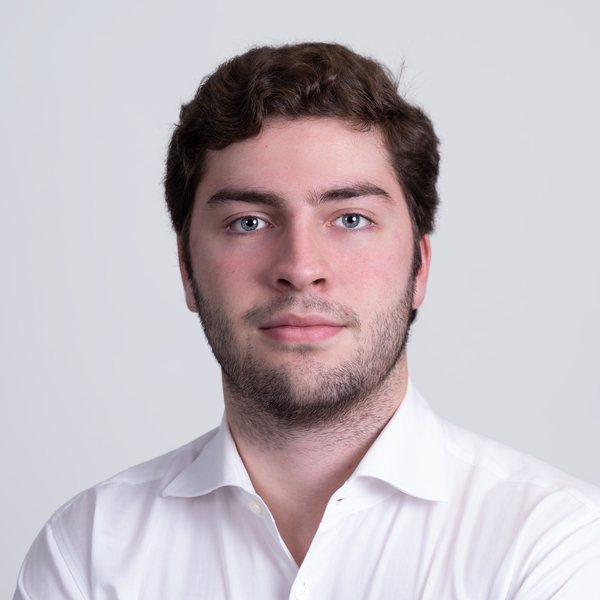
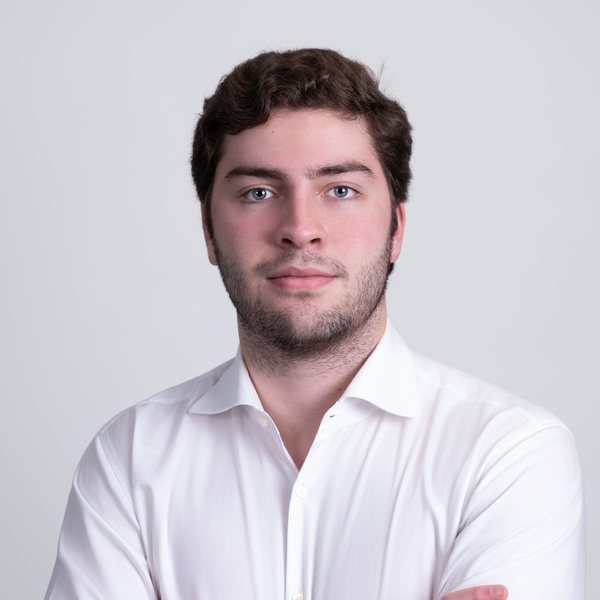
Fotos dos membros menores e com menos zoom; diretoria em triângulo

diff --git a/src/FGVDigitalAssets.jsx b/src/FGVDigitalAssets.jsx
@@ -94,9 +94,12 @@ const PAGES_CSS = `
   .re-members-grid--md { --cols: 5; }
   .re-members-grid > .re-member { flex: 0 0 calc((100% - (var(--cols) - 1) * var(--gap)) / var(--cols)); }
   .re-members-grid--lg > .re-member { max-width: 225px; }
-  .re-members-grid--lg .re-member-photo { max-width: 215px; }
+  .re-members-grid--lg .re-member-photo { max-width: 170px; }
+  /* Diretoria em triângulo: presidente sozinho no topo, dois diretores lado a lado embaixo. */
+  .re-members-grid.re-members-grid--tri { display: grid; grid-template-columns: repeat(2, minmax(0, 225px)); justify-content: center; column-gap: clamp(40px, 9vw, 130px); row-gap: clamp(28px, 3vw, 40px); }
+  .re-members-grid--tri > .re-member:first-child { grid-column: 1 / -1; justify-self: center; width: 100%; max-width: 225px; }
   .re-member { min-width: 0; text-align: center; }
-  .re-member-photo { position: relative; width: 100%; max-width: 190px; margin: 0 auto; aspect-ratio: 1 / 1; overflow: hidden; border-radius: 50%; background: ${PAGE_COLORS.photo}; display: grid; place-items: center; }
+  .re-member-photo { position: relative; width: 100%; max-width: 145px; margin: 0 auto; aspect-ratio: 1 / 1; overflow: hidden; border-radius: 50%; background: ${PAGE_COLORS.photo}; display: grid; place-items: center; }
   .re-member-photo img { width: 100%; height: 100%; object-fit: cover; object-position: center; display: block; filter: saturate(0.9); transition: transform .5s, filter .5s; }
   .re-member:hover .re-member-photo img { transform: scale(1.03); filter: saturate(1); }
   .re-member-initials { font-size: 36px; font-weight: 600; letter-spacing: 0.04em; color: #7A8597; }
@@ -1070,7 +1073,7 @@ function MembersPage({ data, photo }) {
                 <BrandMark className="h-5 w-5" />
               </span>
             </h2>
-            <div className={`re-members-grid re-members-grid--${group.size || "sm"}`}>
+            <div className={`re-members-grid re-members-grid--${group.size || "sm"}${group.layout === "triangulo" ? " re-members-grid--tri" : ""}`}>
               {group.people.map((p, i) => (
                 <article key={`${p.role}-${i}`} className="re-member">
                   <div className="re-member-photo">

diff --git a/src/conteudo.js b/src/conteudo.js
@@ -519,6 +519,8 @@ export const SITE_DATA = {
         {
           title: "Diretoria",
           size: "lg",
+          // "triangulo": a primeira pessoa fica sozinha no topo e as outras duas lado a lado abaixo.
+          layout: "triangulo",
           people: [
             { name: "Pedro Giampietro", role: "Presidente", course: "", photo: "/img/membros/pedro-giampietro.jpg", linkedin: "", email: "" },
             { name: "Felipe Souza", role: "Diretor Institucional", course: "", photo: "/img/membros/felipe-souza.jpg", linkedin: "", email: "" },
